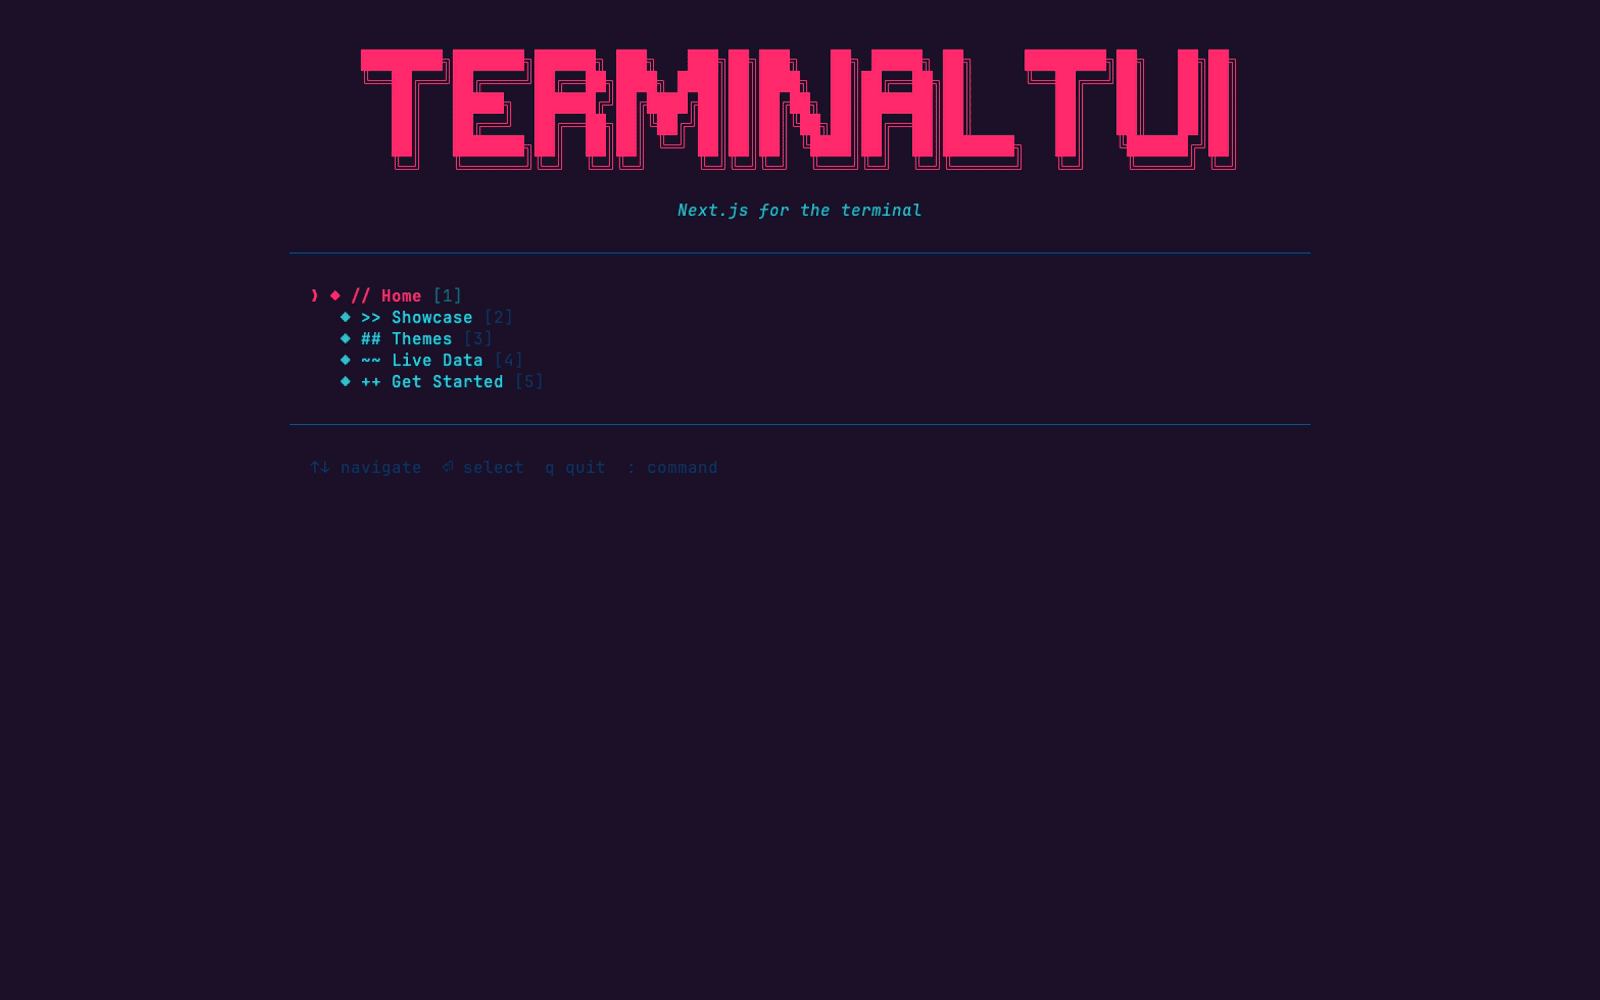
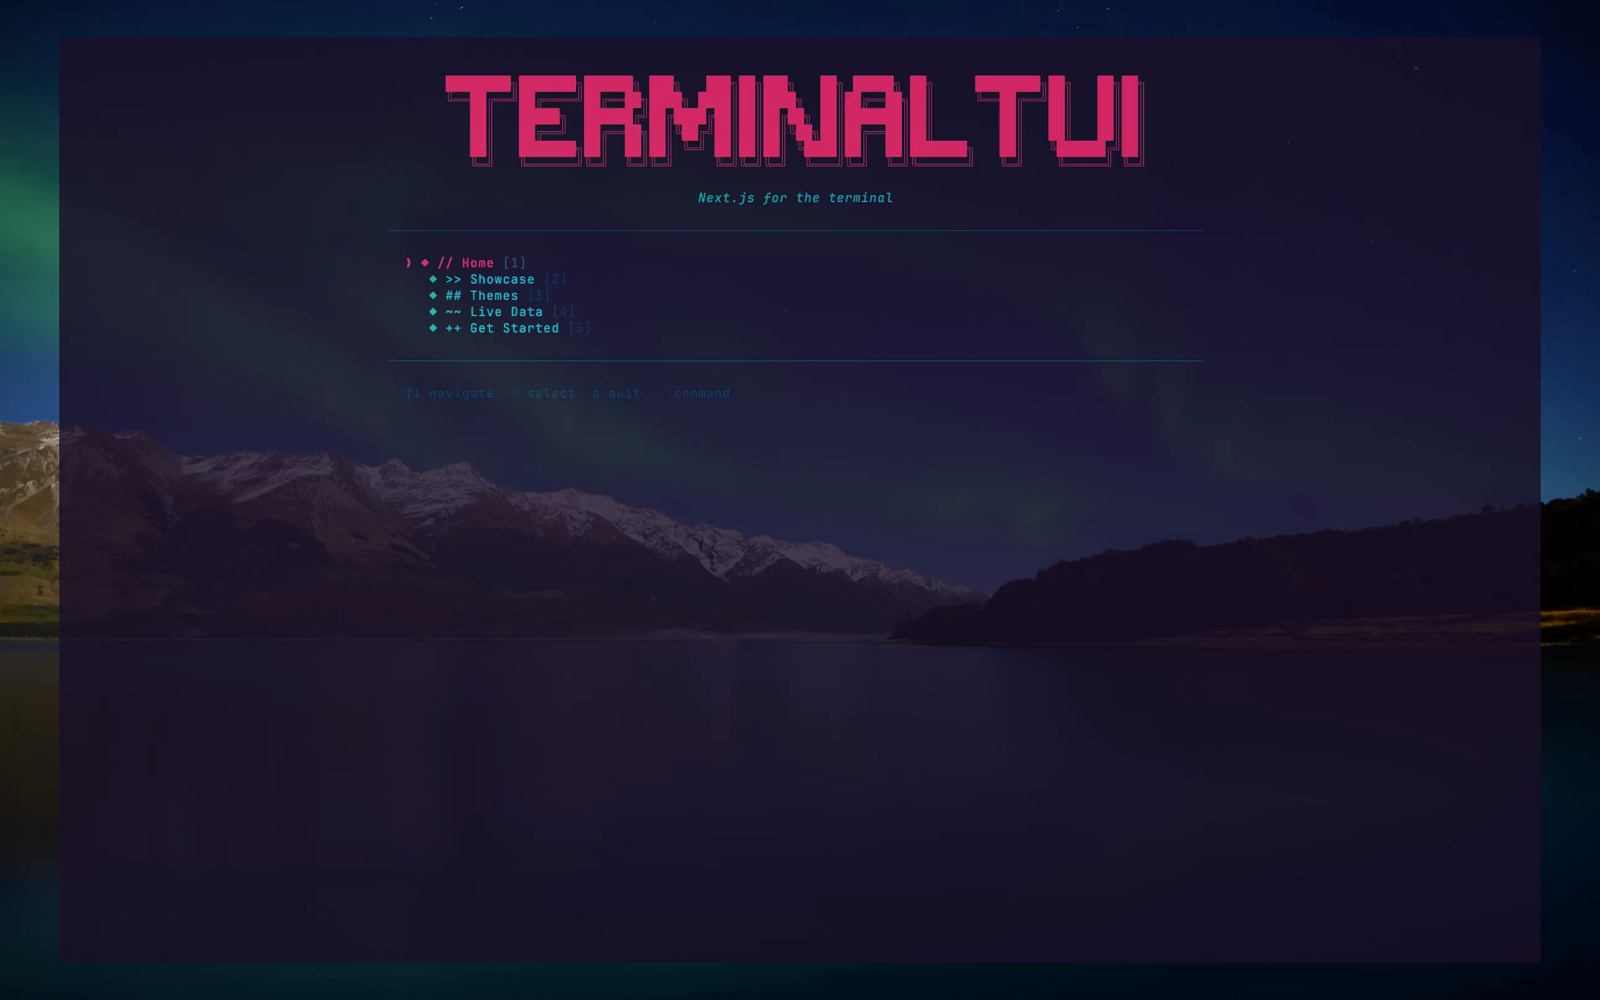
v1.8.0: `npx terminaltui try` + launch-quality bg hero recording
Cuts the launch-readiness scope into a shippable release. Adds the
guided-tour command, two new demos (welcome, mac-monitor), the
setTheme() helper, and the three fixes that surfaced while building
the launch tour (menu-builder crash, :theme camelCase, number-jump).

Asset side: 2400×1500 GPU-encoded MP4 + 1440×900 GIF + 1600×1000 OG
image, all composited over an aurora photo with the terminal in a
window-in-window frame. Dead 1.8s intro trimmed.

diff --git a/CHANGELOG.md b/CHANGELOG.md
@@ -1,5 +1,34 @@
 # Changelog
 
+## [1.8.0] - 2026-05-14
+
+Launch-readiness release. Adds `npx terminaltui try` as a one-command pitch, ships two new bundled demos (`welcome`, `mac-monitor`), exposes `setTheme()` as a runtime helper, and fixes three bugs that surfaced while building the launch tour.
+
+### Added
+
+- **`npx terminaltui try`** — opens a 5-page guided tour of the framework (home, components showcase, themes picker, live data, get-started) in a Synthwave palette. Doubles as a smoke test for someone discovering the framework via README. Source under `demos/welcome/`.
+- **`mac-monitor` demo** — bundled real-time macOS system monitor (CPU, memory, processes, network). Lives at `demos/mac-monitor/`; runs with `npx terminaltui dev demos/mac-monitor/site.config.ts`.
+- **`setTheme(name)`** is now exported from the package root — call from a button's `onPress` to swap the active theme in-place. Returns `false` if the name isn't recognized; the runtime re-renders on success.
+- **Code of Conduct, security policy, PR template** under `CODE_OF_CONDUCT.md`, `SECURITY.md`, `.github/PULL_REQUEST_TEMPLATE.md`.
+
+### Fixed
+
+- **`menu-builder` crashed when `metadata.label` was a function** — both `resolveMenuLabel` and the sort comparator assumed string labels, and parameterized routes that derive their menu label at runtime (`label: ({ params }) => …`) threw `a.label.localeCompare is not a function` on first render. Now type-checked + coerced with `String(...)` in the comparator.
+- **`:theme tokyoNight` and `:theme rosePine` failed** — `executeCommand` lowercased the entire trimmed input before dispatch, so the camelCase argument never matched the theme registry key. Now splits verb from argument and only lowercases the verb. Added `test/test-commands.test.ts` (+11 assertions) to pin the behavior.
+- **Number-key page jumps only worked from the home menu** — README claimed they worked from anywhere; `runtime-input.ts` had an `isHome()` guard that contradicted the docs. Guard removed.
+- **`init` scaffolder hardcoded `^1.6.0`** — generated `package.json` files pinned the framework two versions behind. Now reads the framework's own version dynamically by walking up to the nearest `package.json`.
+
+### Changed
+
+- **README repositioned as "Next.js for the terminal"** — added comparison table vs Ink/Pastel/Bubble Tea, hero recording, test-count badge.
+- Test count: 2,127 → 2,142 across 26 suites.
+
+### Notes
+
+- Memory: the build hosts a 2,400×1,500 GPU-encoded MP4 + 1,440×900 GIF + 1,600×1,000 social-share PNG under `assets/recordings/`. These are not shipped to npm consumers (not in the `files` array).
+
+---
+
 ## [1.7.0] - 2026-05-01
 
 Project-wide review pass. Two production-impacting bugs, multi-session SSH correctness, and a sweep of dead code from the 1.6.0 cleanup that didn't get fully removed.

diff --git a/README.md b/README.md
@@ -4,7 +4,7 @@
 
 > **Next.js for the terminal.** Write a `pages/` directory of TypeScript files. Get an interactive TUI with file-based routing, components, themes, and SSH hosting. Distribute it with `npx`.
 
-![terminaltui — 5-page tour rendered in a Synthwave-themed terminal: ANSI Shadow banner, navigable menu, components showcase, live theme switching, animated sparklines](assets/recordings/launch-hero.gif)
+![terminaltui — 5-page tour rendered in a Synthwave-themed terminal: ANSI Shadow banner, navigable menu, components showcase, live theme switching, animated sparklines](assets/recordings/launch-hero-bg.gif)
 
 *Try it yourself: `npx terminaltui try`*
 